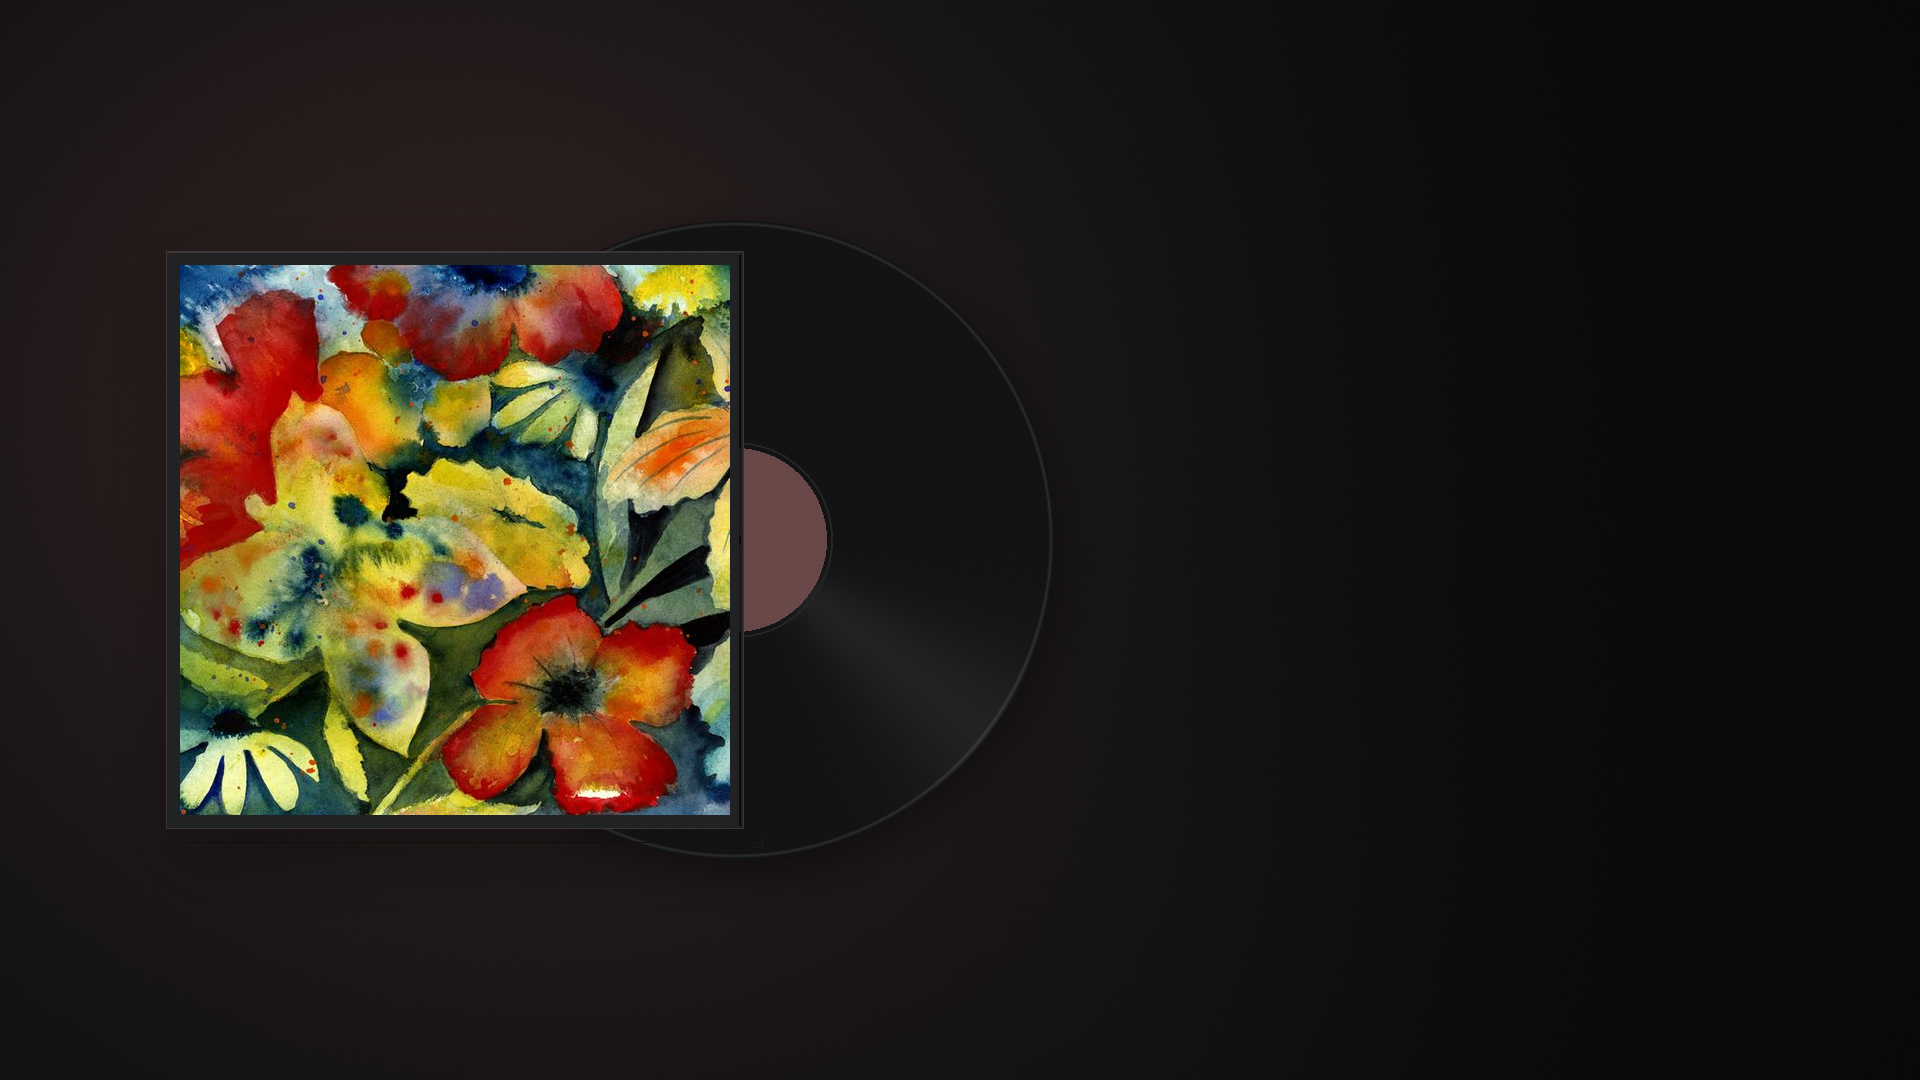
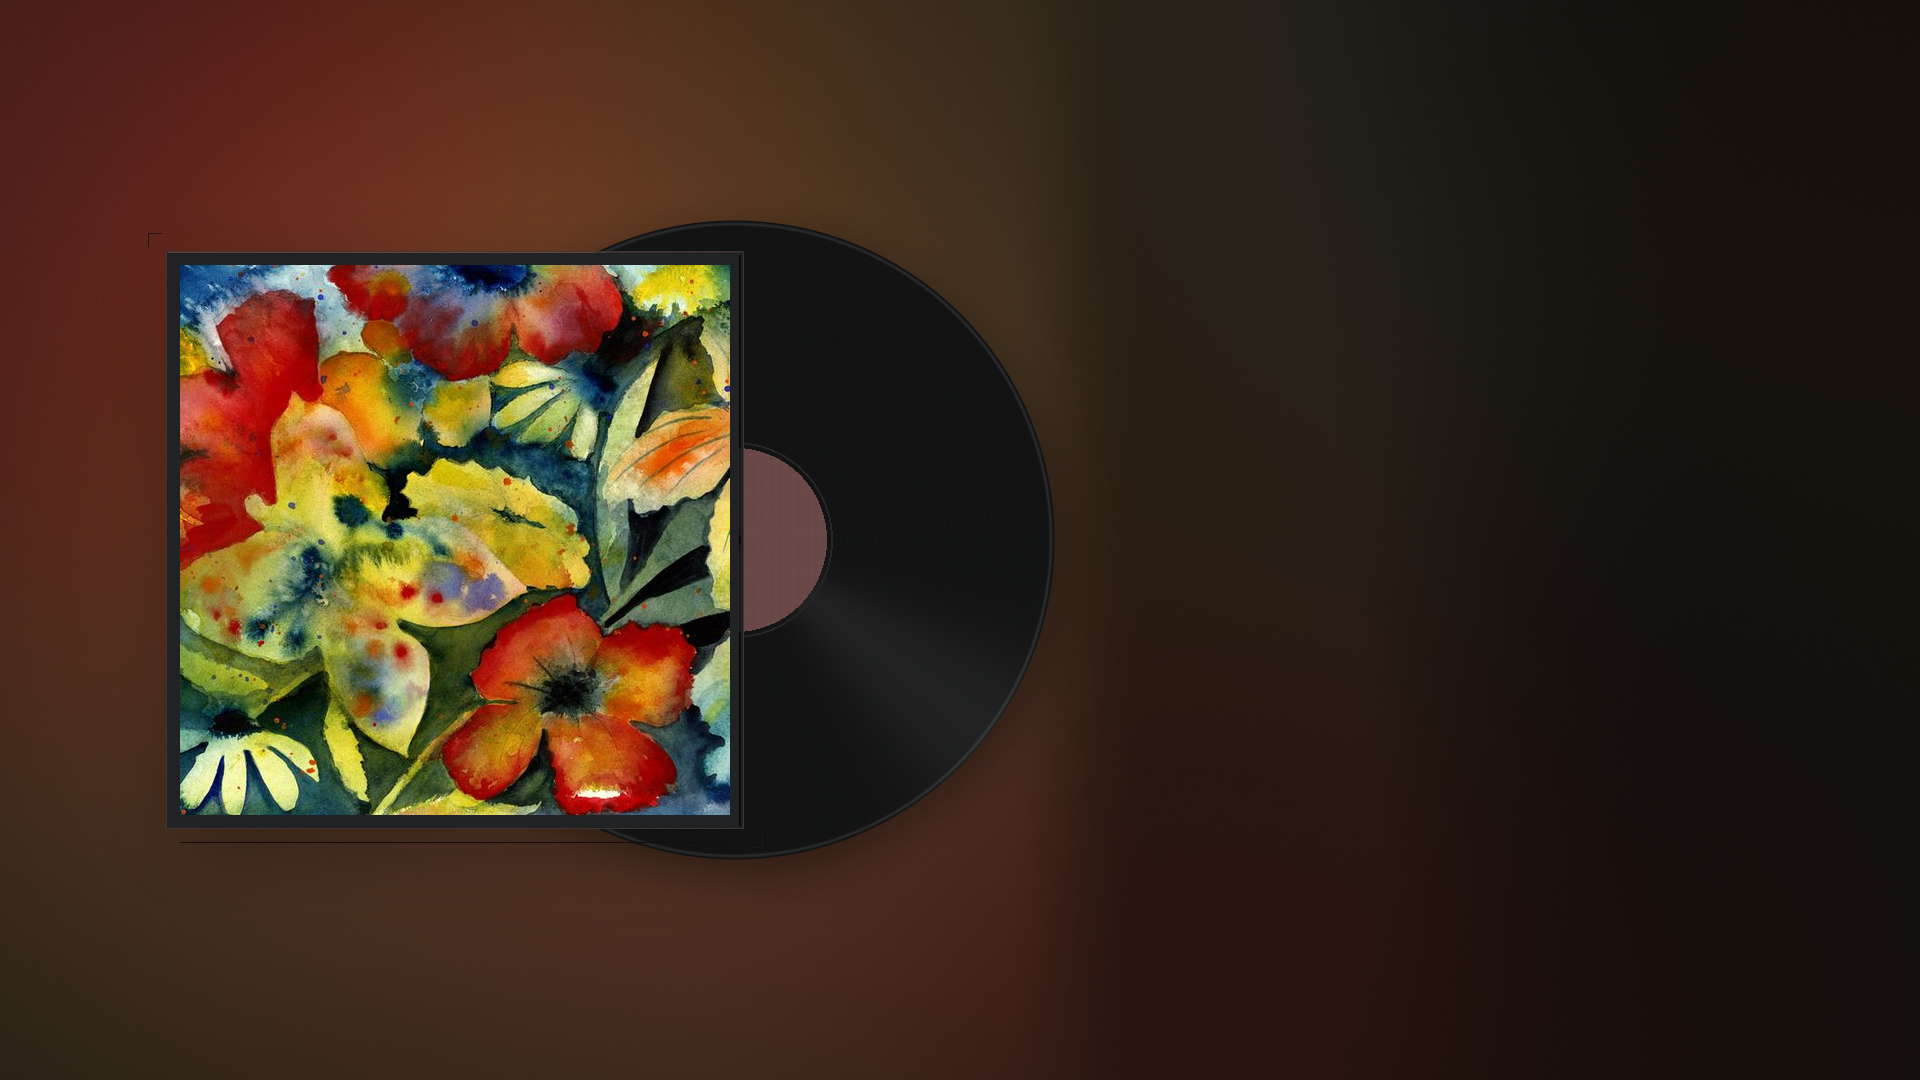
保留 V7 布局，将专辑主次色融入背景并验证批量生成

diff --git a/tasks/v-project/_gen_batch_bg_v7.py b/tasks/v-project/_gen_batch_bg_v7.py
@@ -47,7 +47,7 @@ def palette(cover: Image.Image) -> tuple[np.ndarray, np.ndarray]:
     group = usable[np.all((usable // 32).astype(np.int16) == dominant_bin, axis=1)]
     colour = group.mean(axis=0)
     neutral = float(colour @ np.array([.2126, .7152, .0722]))
-    ambient = np.clip(neutral * .64 + colour * .36, 35, 205)
+    ambient = np.clip(neutral * .12 + colour * .88, 20, 215)
     accent = np.clip(neutral * .25 + colour * .75, 65, 215)
     return ambient, accent
 
@@ -58,17 +58,27 @@ def background(cover: Image.Image, ambient: np.ndarray, rng: np.random.Generator
     light = np.exp(-(((x - 435) / 620) ** 2 + ((y - 400) / 560) ** 2))
     lower = np.exp(-(((x - 780) / 760) ** 2 + ((y - 960) / 330) ** 2))
     arr = np.empty((H, W, 3), dtype=np.float32)
-    arr[:] = (14, 16, 18)
-    arr += light[..., None] * (ambient * .28 + np.array([8, 7, 6]))
-    arr += lower[..., None] * ambient * .075
-    # A very soft memory of the source, rather than a stretched visible duplicate.
-    memory = ImageOps.fit(cover, (480, 270)).filter(ImageFilter.GaussianBlur(48)).resize((W, H))
-    arr += (np.asarray(memory, dtype=np.float32) - 100) * .025 * light[..., None]
+    arr[:] = (8, 10, 12)
+    arr += ambient * .065
+    arr += light[..., None] * (ambient * .24 + np.array([6, 5, 4]))
+    arr += lower[..., None] * ambient * .12
+    # Broad, source-coloured clouds: retain both dominant and secondary hues.
+    # Blur at low resolution so no source details compete with the cover or titles.
+    memory = ImageOps.fit(cover, (240, 135)).filter(
+        ImageFilter.GaussianBlur(22)).resize((W, H), Image.Resampling.BICUBIC)
+    colour_field = np.asarray(memory, dtype=np.float32)
+    arr += colour_field * .36 * (.58 + .42 * light[..., None])
     vignette = np.clip(((x - 780) / 1500) ** 2 + ((y - 500) / 1100) ** 2, 0, 1)
     arr *= (1 - vignette * .2)[..., None]
     right = np.clip((x - 1050) / 700, 0, 1)
     right = right * right * (3 - 2 * right)
-    arr *= (1 - .3 * right)[..., None]
+    arr *= (1 - .48 * right)[..., None]
+    # Keep hue in the title area while compressing brightness, not each channel.
+    safe = np.clip((x - 1000) / 150, 0, 1)
+    safe = safe * safe * (3 - 2 * safe)
+    peak = arr.max(axis=2)
+    compression = np.minimum(1, 40 / np.maximum(peak, 1))
+    arr *= (1 - safe + safe * compression)[..., None]
     # Achromatic grain avoids coloured speckles, including in dark encodes.
     arr += rng.normal(0, .68, (H, W, 1)).astype(np.float32)
     return Image.fromarray(np.clip(arr, 0, 255).astype(np.uint8))

diff --git a/tasks/v-project/tests/test_bg_v7.py b/tasks/v-project/tests/test_bg_v7.py
@@ -23,7 +23,8 @@ class RenderTests(unittest.TestCase):
         self.assertEqual(image.crop((180, 265, 730, 815)).tobytes(), cover.tobytes())
         right = np.asarray(image)[200:880, 1150:1800]
         self.assertLess(float(np.quantile(right, .99)), 45)
-        self.assertLess(float(right.std()), 8)
+        luminance = right @ np.array([.2126, .7152, .0722])
+        self.assertLess(float(luminance.std()), 10)
         self.assertEqual(hashlib.sha256(image.tobytes()).digest(),
                          hashlib.sha256(v7.render(cover).tobytes()).digest())
 
@@ -42,6 +43,17 @@ class RenderTests(unittest.TestCase):
             bad.write_bytes(b'not an image')
             self.assertFalse(v7.process_v7(bad, root / 'result.png'))
             self.assertFalse((root / 'result.png').exists())
+
+    def test_background_really_tracks_album_hues(self):
+        red = v7.render(Image.new('RGB', (550, 550), (190, 40, 30)))
+        blue = v7.render(Image.new('RGB', (550, 550), (30, 70, 190)))
+        red_mean = np.asarray(red)[60:210, 150:1050].mean(axis=(0, 1))
+        blue_mean = np.asarray(blue)[60:210, 150:1050].mean(axis=(0, 1))
+        self.assertGreater(float(red_mean[0] - red_mean[2]), 20)
+        self.assertGreater(float(blue_mean[2] - blue_mean[0]), 20)
+        mono = v7.render(Image.new('RGB', (550, 550), (160, 160, 160)))
+        mono_mean = np.asarray(mono)[60:210, 150:1050].mean(axis=(0, 1))
+        self.assertLess(float(mono_mean.max() - mono_mean.min()), 6)
 
     def test_exif_rotation_is_applied_before_square_crop(self):
         with tempfile.TemporaryDirectory() as temp:

diff --git a/tasks/v-project/VERSION_HISTORY.md b/tasks/v-project/VERSION_HISTORY.md
@@ -6,7 +6,9 @@
 
 - 尺寸仍为 1920×1080；封面位置仍为 x=180、y=265、550px 正方形。
 - 哑光内封、右侧露出的黑胶、细密沟槽、定向反光与柔和接触阴影。
-- 根据封面的色彩群提取低饱和环境光；白色、黑色占比过高时退化为中性色。
+- 根据封面的色彩群提取环境光；白色、黑色占比过高时退化为中性色。
+- 2026-10-19 配色修订：保留 V7 全部布局与唱片材质，提高主色保留率，加入大尺度柔焦封面色域，使主色与次色融入背景；右侧按统一比例压低 RGB 亮度，保留色相。
+- 新增红/蓝封面色相响应及灰阶封面中性测试；修订前后对比见 `output/bg_v7/preview/color-comparison.jpg`。
 - 右侧 x≥1100 以低亮度留白为主，不烘焙专辑名、歌词、商标或额外文案。
 - 封面在光影处理后原样贴入，不叠加颗粒、色温或反光。
 - EXIF 朝向与透明图片处理；像素哈希作为随机种子，改文件名不影响输出。

diff --git a/tasks/v-project/README.md b/tasks/v-project/README.md
@@ -4,7 +4,7 @@
 
 ## V7 · 深夜唱片内封
 
-2026-10-19 新增静态艺术版本：哑光封套、半露黑胶、细密沟槽、柔和投影和低饱和环境光。封面保持原色，右侧保留暗色叠字空间。无预置标题、歌词或品牌文字。
+2026-10-19 新增静态艺术版本：哑光封套、半露黑胶、细密沟槽、柔和投影和专辑配色环境光。背景融合封面的主色与次色，以大尺度柔焦色域自然扩散；封面保持原色，右侧保留带色相的暗色叠字空间。无预置标题、歌词或品牌文字。
 
 ![V3 与 V7 对比](output/bg_v7/preview/comparison.jpg)
 
